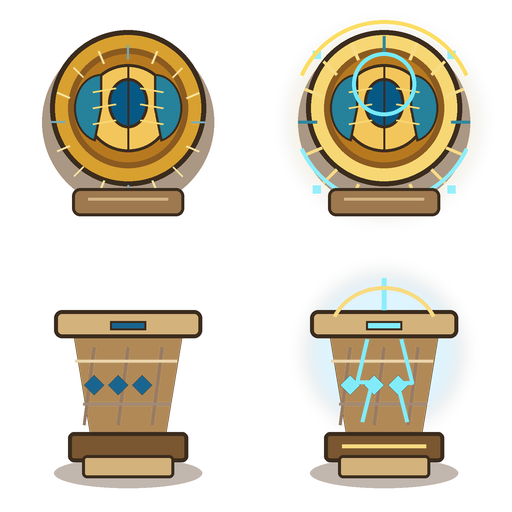
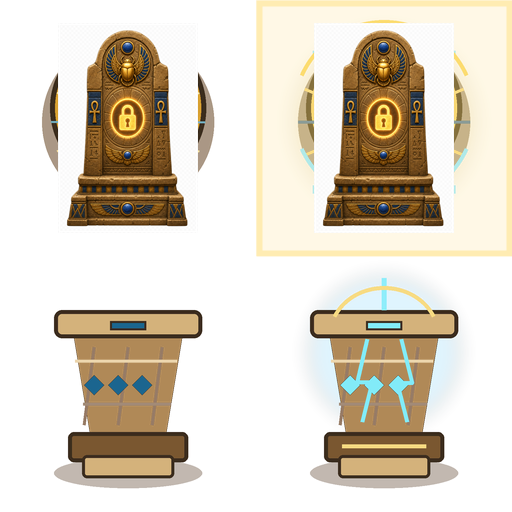
Polish Journey platforms and grounded trap visuals

Changed region(s): [[0.5, 0.0, 1.0, 0.5], [0.0938, 0.0312, 0.4062, 0.4688]]

diff --git a/src/components/expedition-journey/journeySecrets.test.js b/src/components/expedition-journey/journeySecrets.test.js
@@ -85,6 +85,7 @@ test('secret collectibles support Egypt and China discovery sets', () => {
 test('world continuity landmarks foreshadow future expedition sections', () => {
   const worldLandmarks = extractExportedArray('WORLD_CONTINUITY_LANDMARKS');
   const transitionMarkers = extractExportedArray('WORLD_TRANSITION_STORY_MARKERS');
+  const stageEntranceFeatures = extractExportedArray('STAGE_ENTRANCE_FEATURES');
 
   assert.ok((worldLandmarks.match(/id:/g) || []).length >= 8);
   ['tower', 'mountains', 'excavation-camp', 'guardian-ruin', 'bridge', 'gate'].forEach((type) => {
@@ -97,6 +98,21 @@ test('world continuity landmarks foreshadow future expedition sections', () => {
   assert.ok((transitionMarkers.match(/id:/g) || []).length >= 4);
   assert.match(transitionMarkers, /collapsed road leading to the temple doors/);
   assert.match(transitionMarkers, /camp lamps and carved stone over the final rise/);
+
+  assert.equal((stageEntranceFeatures.match(/id:/g) || []).length, 4);
+  [
+    'ruined-temple-colossus-gate',
+    'catacomb-descent-doorway',
+    'escape-breach-gate',
+    'dig-site-arrival-gate',
+  ].forEach((id) => {
+    assert.match(stageEntranceFeatures, new RegExp(`id:\\s*'${id}'`));
+  });
+  ['ruined-temple', 'catacombs', 'escape-sequence', 'dig-site-entrance'].forEach((sectionId) => {
+    assert.match(stageEntranceFeatures, new RegExp(`to:\\s*'${sectionId}'`));
+  });
+  assert.match(journeyComponentSource, /drawStageEntranceFeature/);
+  assert.match(journeyComponentSource, /STAGE_ENTRANCE_FEATURES\.forEach/);
 });
 
 test('story props include recurring expedition markers across sections', () => {
@@ -293,7 +309,7 @@ test('opening Scarab Seal climb triggers a boss confrontation without completing
   assert.match(journeyComponentSource, /shouldFlipBossSprite\(OPENING_SPHINX_SPRITE_BOSS_ID,\s*-1\)/);
   assert.match(journeyComponentSource, /openingSphinxSpriteFrame/);
   assert.match(journeyComponentSource, /openingSphinxEncounterState:/);
-  assert.match(journeyComponentSource, /&& !gameState\.openingSphinxEncounter/);
+  assert.doesNotMatch(journeyComponentSource, /expedition-journey-notice/);
   assert.match(journeyComponentSource, /spriteAtlasPath:\s*renderStats\.openingSphinxSpriteAtlasPath\s*\|\|\s*ANCIENT_CONSTRUCT_SPRITE_ATLAS_JSON/);
   assert.match(journeyComponentSource, /spriteLoaded:\s*renderStats\.openingSphinxSpriteLoaded[\s\S]*?Boolean\(bossSpriteAssets\.packs\?\.\[OPENING_SPHINX_SPRITE_BOSS_ID\]\?\.loaded\)/);
   assert.match(journeyComponentSource, /openingSphinxEncounter\.timer[\s\S]*?OPENING_SPHINX_EXIT_SECONDS/);
@@ -630,6 +646,7 @@ test('Egypt sacred trap seal and pedestal pack is registered as a future asset o
   });
 
   assert.equal(egyptSacredTrapAtlas.image, 'egypt-sacred-traps-pack.png');
+  assert.equal(egyptSacredTrapAtlas.source, 'imagegen-egypt-barrier-atlas-2026-05-20');
   assert.match(journeyRenderAssetsSource, /EGYPT_SACRED_TRAPS:\s*'egypt-sacred-traps'/);
   assert.match(journeyRenderAssetsSource, /EGYPT_SACRED_TRAPS_ATLAS_JSON/);
   assert.match(journeyRenderAssetsSource, /EXPECTED_EGYPT_SACRED_TRAP_ASSET_KEYS/);
@@ -863,7 +880,10 @@ test('platform polish creates purposeful jump challenges with checkpoint rescue 
     'guardian prep cracked ledge',
     'guardian prep safe marker',
     'collapsing column step',
+    'sandfall recovery shelf',
+    'archive reward step',
     'torch safe ledge',
+    'bat dodge perch',
     'survey rope ledge',
   ].forEach((label) => {
     assert.match(platforms, new RegExp(label));

diff --git a/src/components/expedition-journey/journeyLevelData.js b/src/components/expedition-journey/journeyLevelData.js
@@ -55,12 +55,14 @@ export const PLATFORMS = [
   { x: X(2110), y: JY(314), width: 128, height: 18, label: 'buried recovery stair' },
   { x: X(1940), y: JY(246), width: 150, height: 18, label: 'upper step', challengeId: 'temple-sandfall-climb', challengeFailY: JY(326), challengeFailMessage: 'You slipped from the sandfall climb. The team reset at the checkpoint.' },
   { x: X(2075), y: JY(226), width: 145, height: 18, label: 'trap bypass ledge', challengeId: 'temple-sandfall-climb', challengeFailY: JY(326), challengeFailMessage: 'You slipped from the sandfall climb. The team reset at the checkpoint.' },
+  { x: X(2185), y: JY(250), width: 122, height: 18, label: 'sandfall recovery shelf', challengeId: 'temple-sandfall-climb', challengeFailY: JY(326), challengeFailMessage: 'You slipped from the sandfall climb. The team reset at the checkpoint.' },
   { x: X(2225), y: JY(204), width: 160, height: 18, label: 'rope shelf', requiresUpgrade: 'rope-launcher', challengeComplete: 'temple-sandfall-climb' },
   { x: X(2310), y: JY(288), width: 118, height: 18, label: 'field note step' },
   { x: X(2445), y: JY(292), width: 155, height: 18, label: 'broken wall step' },
   { x: X(2500), y: JY(264), width: 210, height: 18, label: 'mural walkway' },
   { x: X(2585), y: JY(238), width: 135, height: 18, label: 'upper mural clue' },
   { x: X(2715), y: JY(246), width: 145, height: 18, label: 'guardian approach' },
+  { x: X(2895), y: JY(254), width: 132, height: 18, label: 'archive reward step' },
   { x: X(2840), y: JY(292), width: 122, height: 18, label: 'guardian rest step' },
   { x: X(2790), y: JY(222), width: 185, height: 18, label: 'archive ledge' },
   { x: X(3185), y: JY(312), width: 128, height: 18, label: 'torch entry step' },
@@ -72,6 +74,7 @@ export const PLATFORMS = [
   { x: X(3890), y: JY(206), width: 160, height: 18, label: 'torch alcove', secret: true, requiresUpgrade: 'torch-upgrade' },
   { x: X(3990), y: JY(304), width: 120, height: 18, label: 'evidence pause step' },
   { x: X(4060), y: JY(292), width: 160, height: 18, label: 'glyph clue ledge' },
+  { x: X(4145), y: JY(248), width: 126, height: 18, label: 'bat dodge perch' },
   { id: 'catacomb-bone-dry-bridge', x: X(4200), y: JY(278), width: 210, height: 18, label: 'bone-dry bridge', reactive: { type: 'unstable ledge', delay: 1.8, respawn: 3.4, shake: 0.1 } },
   { x: X(4385), y: JY(238), width: 140, height: 18, label: 'serpent warning shelf' },
   { x: X(4440), y: JY(252), width: 155, height: 18, label: 'serpent watch ledge' },

diff --git a/src/components/ExpeditionJourney.jsx b/src/components/ExpeditionJourney.jsx
@@ -410,7 +410,7 @@ const OPENING_HAZARD_DECAL_BY_HAZARD = {
 };
 const EGYPT_HAZARD_DECAL_PLACEMENT = {
   pressurePlate: { xPad: 14, widthPad: 28, height: 74, footInset: 2 },
-  crackedFloor: { xPad: 16, widthPad: 32, height: 68, footInset: 1 },
+  crackedFloor: { xPad: 16, widthPad: 32, height: 62, footInset: 14 },
   scarabSealTrap: { xPad: 22, widthPad: 44, height: 94, footInset: 3 },
   glyphTripwire: { xPad: 28, widthPad: 56, height: 66, footInset: 3 },
   fallingStoneWarning: { xPad: 24, widthPad: 48, height: 122, footInset: 2 },
@@ -6591,11 +6591,11 @@ export default function ExpeditionJourney({
         ctx.beginPath();
         ctx.ellipse(centerX, footY - drawHeight * 0.28, drawWidth * 0.5, drawHeight * 0.5, 0, 0, Math.PI * 2);
         ctx.clip();
-        ctx.globalAlpha = hitActive ? 0.74 : 0.54;
-        ctx.filter = hitActive ? 'sepia(14%) saturate(100%) brightness(92%) contrast(92%)' : 'sepia(24%) saturate(62%) brightness(82%) contrast(80%)';
+        ctx.globalAlpha = 1;
+        ctx.filter = hitActive ? 'sepia(10%) saturate(108%) brightness(96%) contrast(98%)' : 'sepia(16%) saturate(78%) brightness(90%) contrast(90%)';
         ctx.drawImage(trapSealImage.image, drawX, drawY, drawWidth, drawHeight);
         ctx.globalCompositeOperation = 'source-atop';
-        ctx.fillStyle = hitActive ? 'rgba(190, 126, 58, 0.46)' : 'rgba(194, 134, 66, 0.58)';
+        ctx.fillStyle = hitActive ? 'rgba(190, 126, 58, 0.18)' : 'rgba(194, 134, 66, 0.24)';
         ctx.fillRect(drawX, drawY, drawWidth, drawHeight);
         ctx.restore();
         ctx.save();

diff --git a/src/index.css b/src/index.css
@@ -12952,13 +12952,15 @@ main {
 /* --- Lost Site Expedition Journey: High Fidelity UI --- */
 
 .expedition-journey-container {
+  --journey-stage-inline-padding: 0.4rem;
+  --journey-stage-height-limit: calc(100dvh - (var(--journey-stage-inline-padding) * 2));
   display: flex;
   flex-direction: column;
   min-height: 100dvh;
   height: 100dvh;
   max-width: none;
   margin: 0 auto;
-  padding: 0.4rem;
+  padding: var(--journey-stage-inline-padding);
   gap: 0;
   animation: fadeIn 0.8s ease-out;
 }
@@ -12977,7 +12979,7 @@ main {
 .expedition-sidebar {
   position: absolute;
   left: auto;
-  right: max(1.05rem, calc(50% - ((100dvh - 0.8rem) * 0.8889) + 1.05rem));
+  right: max(1.05rem, calc(((100% - min(100%, calc(var(--journey-stage-height-limit) * 1.7778))) / 2) + 1.05rem));
   bottom: 1.05rem;
   z-index: 35;
   display: grid;
@@ -13429,10 +13431,11 @@ main {
 .canvas-wrapper {
   position: relative;
   flex: 0 0 auto;
-  width: min(100%, calc((100dvh - 0.8rem) * 1.7778));
+  width: 100%;
+  max-width: calc(var(--journey-stage-height-limit) * 1.7778);
   min-height: 0;
   aspect-ratio: 16 / 9;
-  max-height: calc(100dvh - 0.8rem);
+  max-height: var(--journey-stage-height-limit);
   background: #0f172a;
   border-radius: 10px;
   border: 4px solid #334155;
